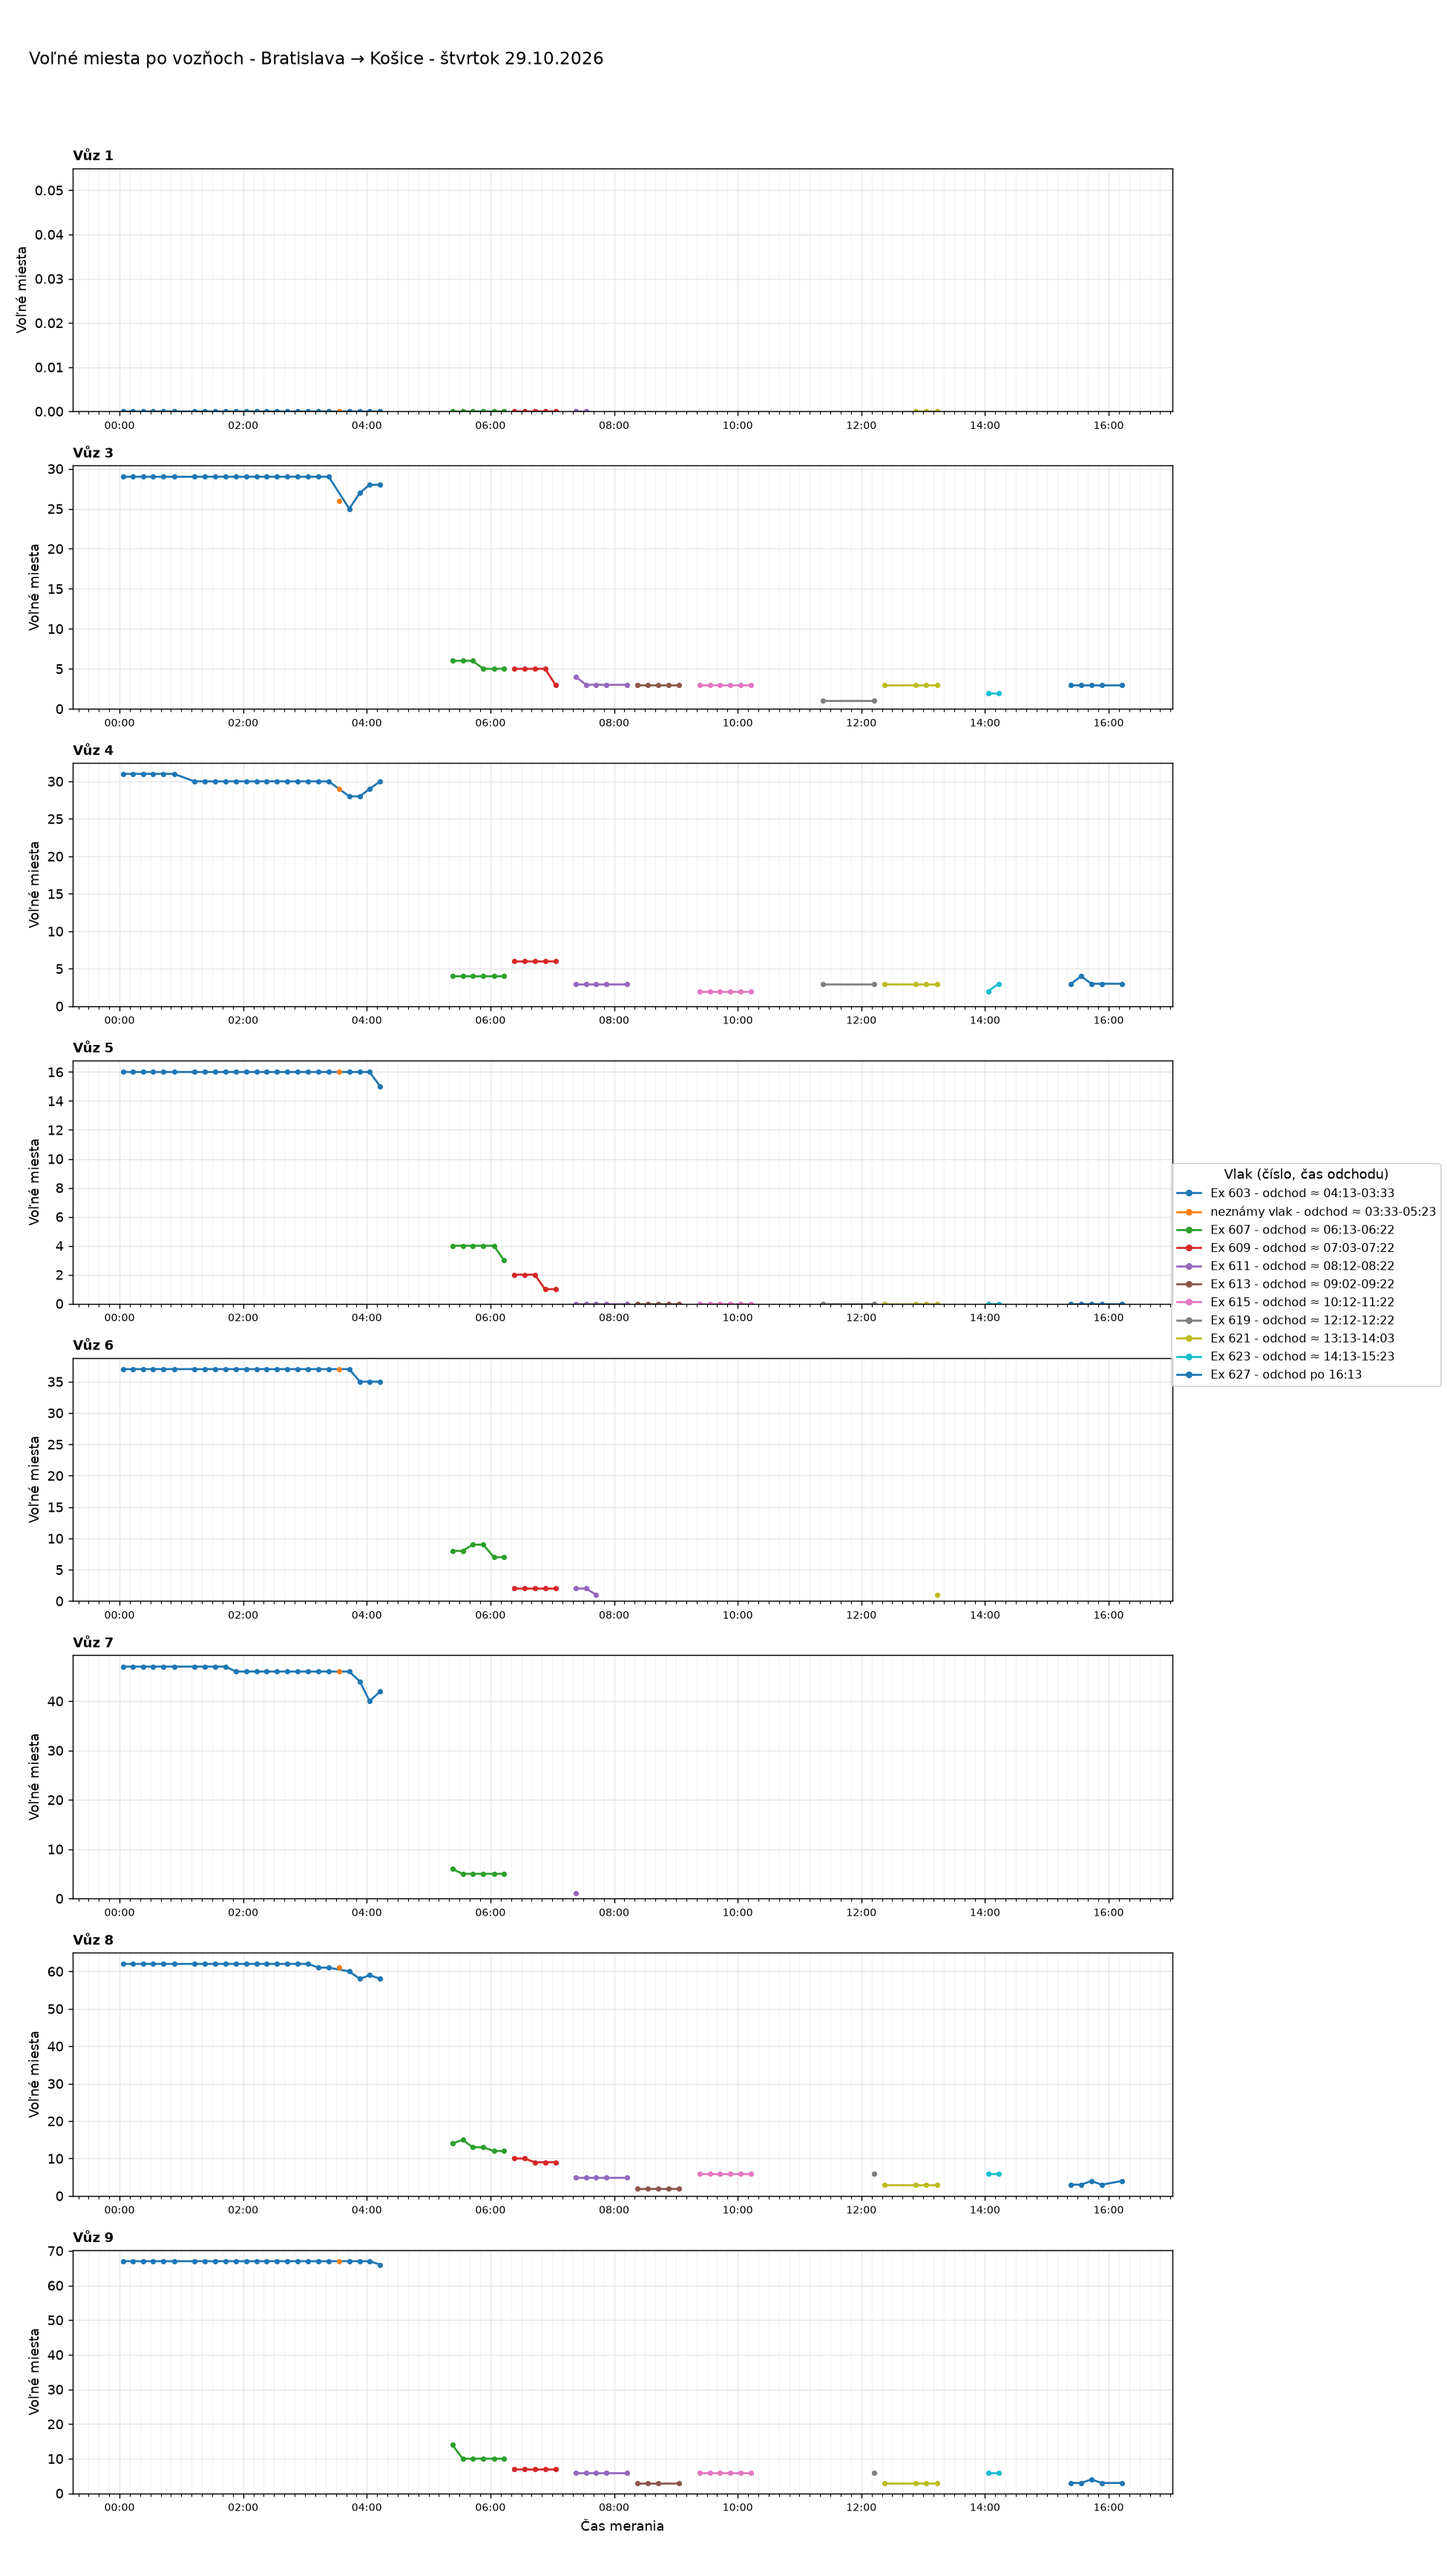
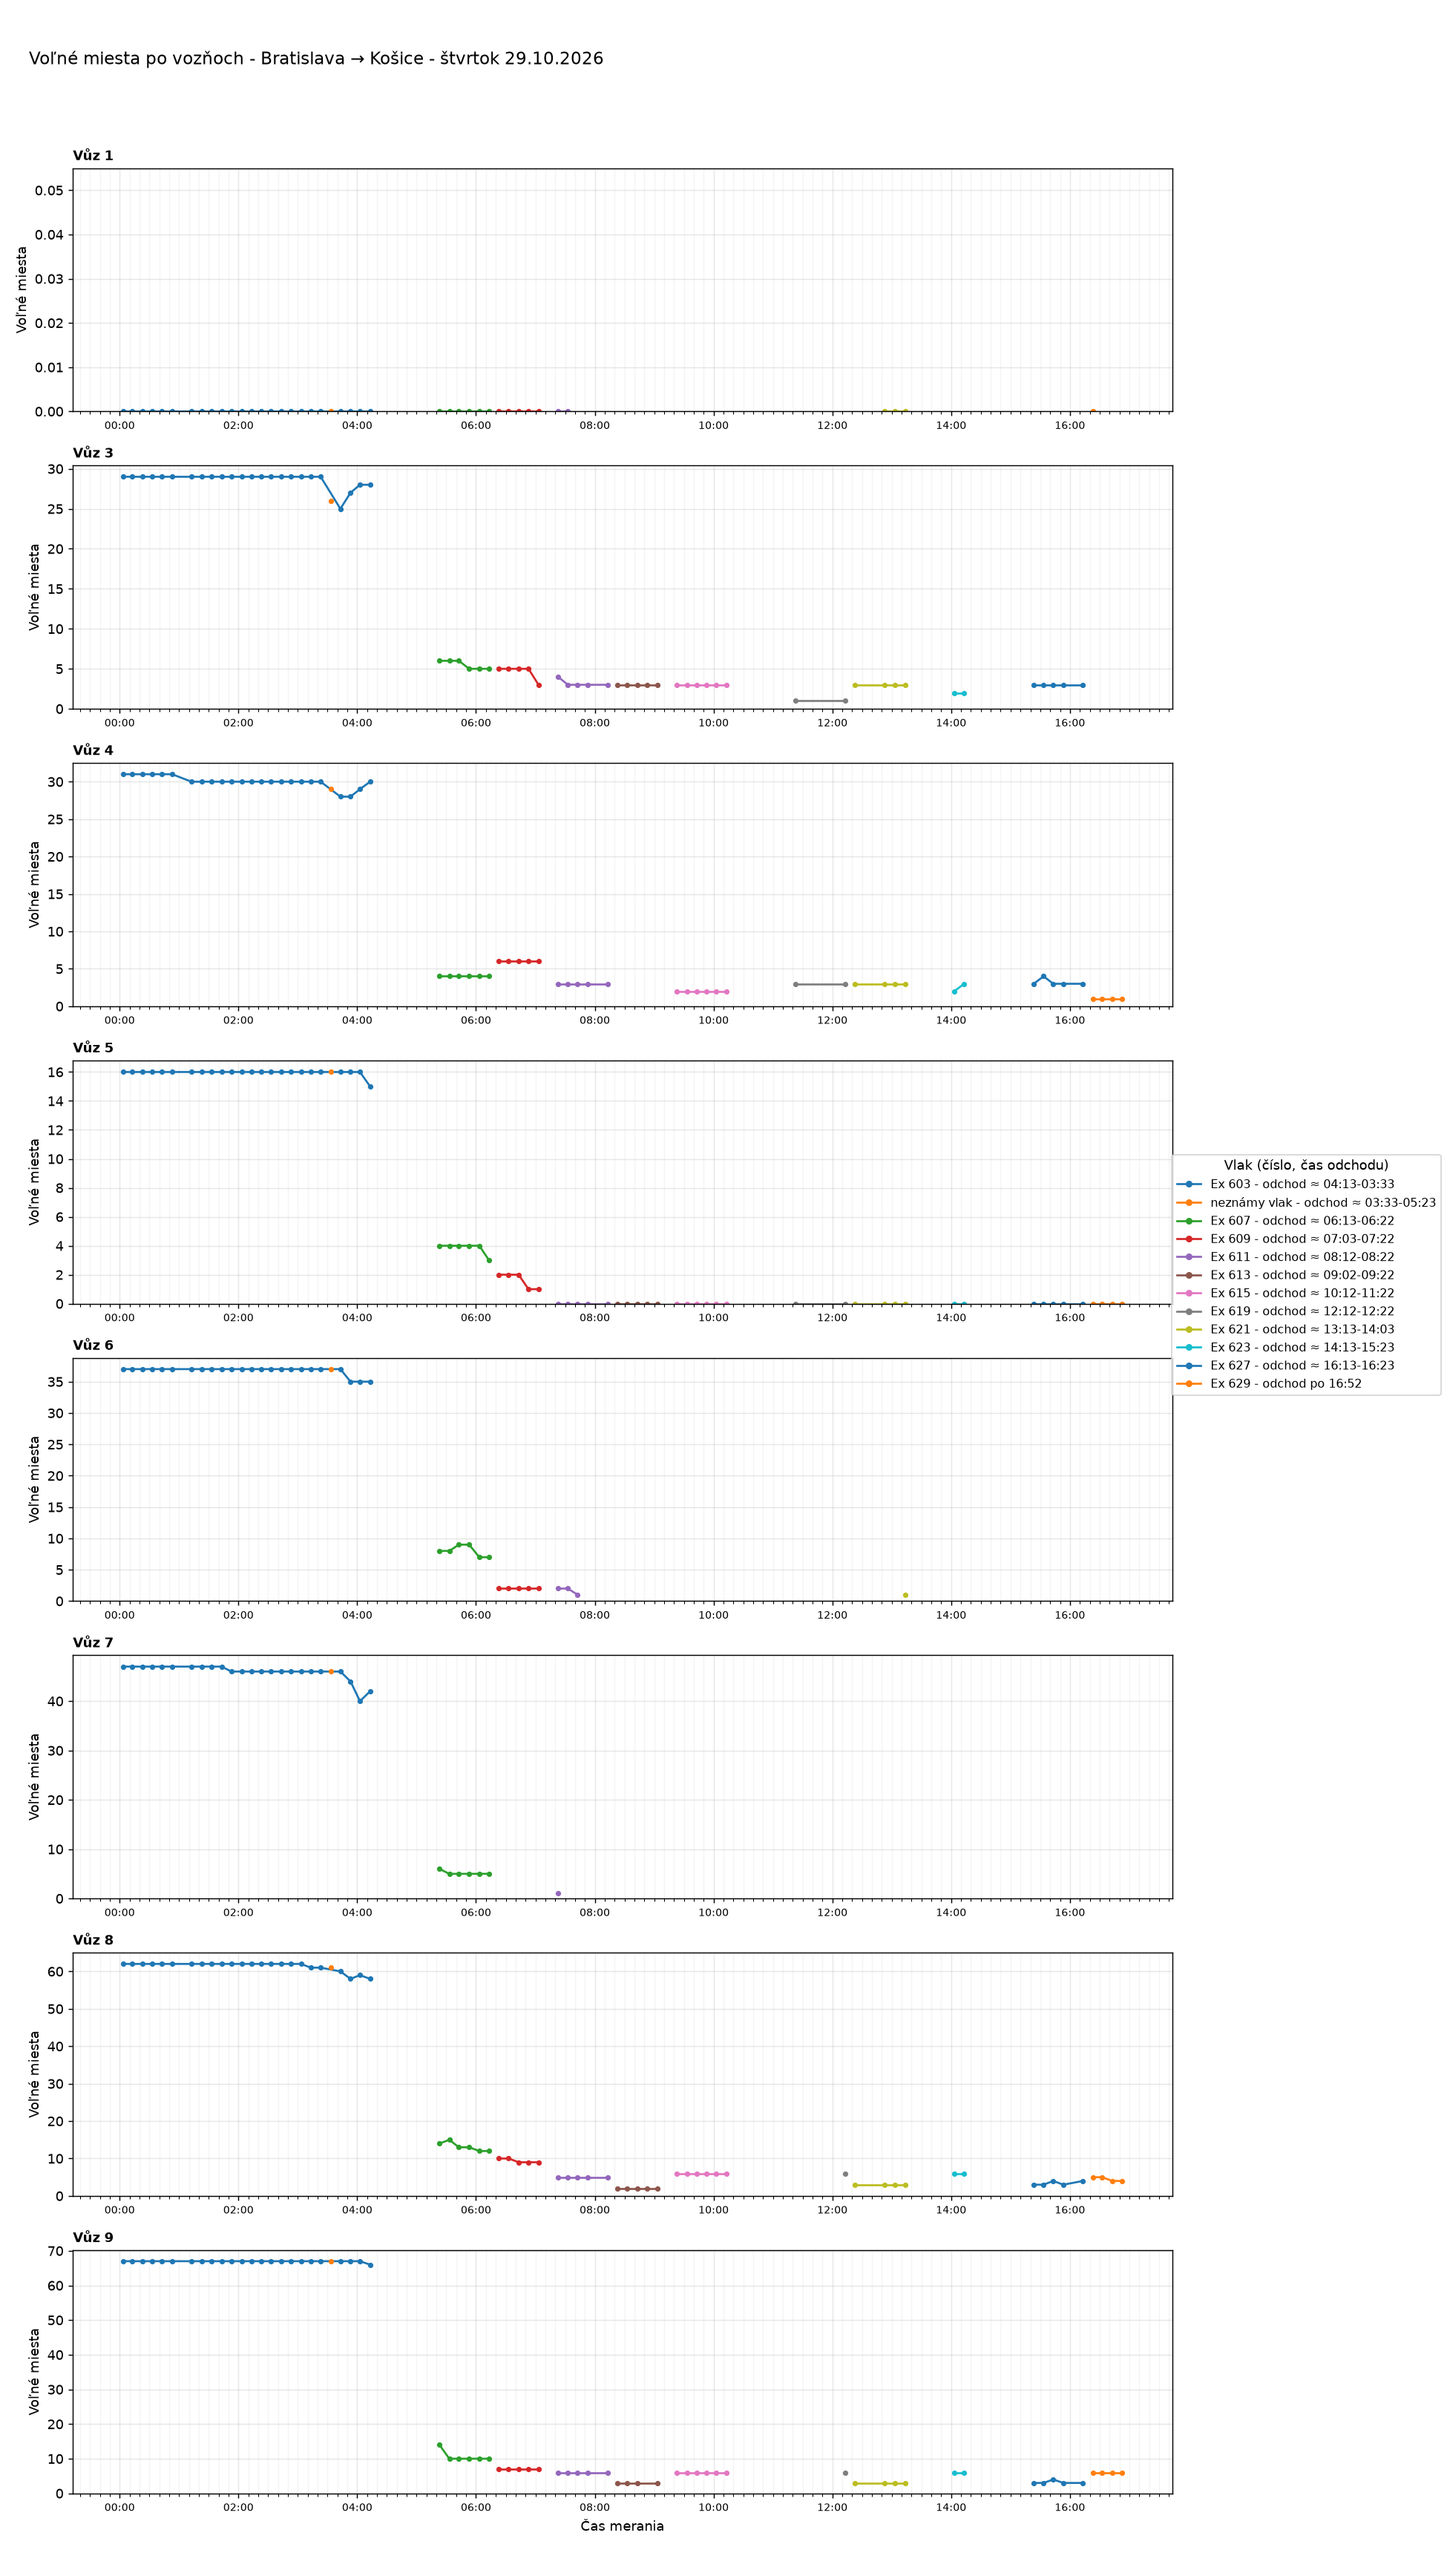
Aktualizácia grafov 2026-10-29 17:03

diff --git a/index.html b/index.html
@@ -37,7 +37,7 @@ details.trasa>summary{cursor:pointer;font-weight:600;font-size:1.1rem;padding:8p
 <body>
 <main>
 <h1>Voľné miesta vo vlakoch</h1>
-<p class="muted">Posledné meranie: 29.10.2026 16:13 ·
+<p class="muted">Posledné meranie: 29.10.2026 16:52 ·
 <a href="data/obsadenost_data.csv">stiahnuť dáta (CSV)</a></p>
 <nav class="nav"><a href="#suhrn">Súhrn</a><a href="#statistiky">Štatistiky</a><a href="#historia">História grafov</a></nav>
 
@@ -46,9 +46,9 @@ details.trasa>summary{cursor:pointer;font-weight:600;font-size:1.1rem;padding:8p
 <div class="tablewrap"><table>
 <thead><tr><th>Deň</th><th>Trasa</th><th>Meraní</th><th>Vlakov</th><th>Čas meraní</th></tr></thead>
 <tbody>
-<tr><td><a href="#dBA-VR-2026-10-29">štvrtok 29.10.2026</a></td><td>Bratislava → Vrútky</td><td>73</td><td>11</td><td>00:01-16:11</td></tr>
-<tr><td><a href="#dVR-BA-2026-10-29">štvrtok 29.10.2026</a></td><td>Vrútky → Bratislava</td><td>63</td><td>13</td><td>02:42-16:12</td></tr>
-<tr><td><a href="#dBA-KE-2026-10-29">štvrtok 29.10.2026</a></td><td>Bratislava → Košice</td><td>65</td><td>11</td><td>00:03-16:13</td></tr>
+<tr><td><a href="#dBA-VR-2026-10-29">štvrtok 29.10.2026</a></td><td>Bratislava → Vrútky</td><td>77</td><td>12</td><td>00:01-16:51</td></tr>
+<tr><td><a href="#dVR-BA-2026-10-29">štvrtok 29.10.2026</a></td><td>Vrútky → Bratislava</td><td>67</td><td>13</td><td>02:42-16:52</td></tr>
+<tr><td><a href="#dBA-KE-2026-10-29">štvrtok 29.10.2026</a></td><td>Bratislava → Košice</td><td>69</td><td>12</td><td>00:03-16:52</td></tr>
 <tr><td><a href="#dKE-BA-2026-10-29">štvrtok 29.10.2026</a></td><td>Košice → Bratislava</td><td>62</td><td>13</td><td>00:04-15:44</td></tr>
 <tr><td><a href="#dBA-VR-2026-10-28">streda 28.10.2026</a></td><td>Bratislava → Vrútky</td><td>148</td><td>16</td><td>00:03-23:51</td></tr>
 <tr><td><a href="#dVR-BA-2026-10-28">streda 28.10.2026</a></td><td>Vrútky → Bratislava</td><td>65</td><td>13</td><td>08:02-20:22</td></tr>
